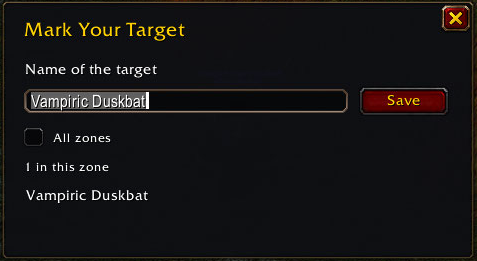
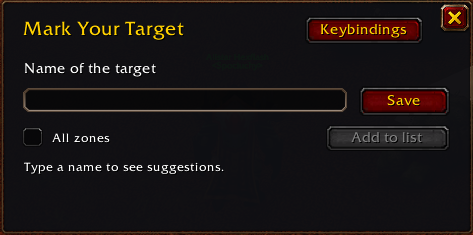
Refresh screenshots for Mark Your Target v1.5.0

Changed region(s): [[0.0, 0.0, 1.0, 1.0], [0.6512, 0.0596, 0.8879, 0.2085], [0.6808, 0.5362, 0.9471, 0.6553]]

diff --git a/docs/index.html b/docs/index.html
@@ -37,28 +37,36 @@
             <h2 id="screenshots-heading">In game</h2>
             <div class="gallery">
                 <figure>
-                    <a href="assets/quick-target.png"><img src="assets/quick-target.png" alt="Quick Target panel for Auctioneer Tricket with the skull marker below it"></a>
-                    <figcaption><strong>Quick Target</strong><span>Prepare a name in chat, then click to target, mark and ping.</span></figcaption>
+                    <a href="assets/target-list.png"><img src="assets/target-list.png" alt="Target list containing Ghost Howl and Ghost Saber with Remove and Save list controls"></a>
+                    <figcaption><strong>Build a target list</strong><span>Add or remove Ghost Howl and Ghost Saber before saving.</span></figcaption>
+                </figure>
+                <figure>
+                    <a href="assets/keybindings.png"><img src="assets/keybindings.png" alt="Keybindings panel with instructions for Quick Target and Cycle Targets"></a>
+                    <figcaption><strong>Set shortcuts in the picker</strong><span>Assign Quick Target and Cycle Targets and see what each needs.</span></figcaption>
+                </figure>
+                <figure>
+                    <a href="assets/macro-window.png"><img src="assets/macro-window.png" alt="WoW’s Macros window showing the macro for Ghost Howl and Ghost Saber"></a>
+                    <figcaption><strong>Save to the Macros window</strong><span>The saved macro tries both names in order.</span></figcaption>
+                </figure>
+                <figure>
+                    <a href="assets/quick-target.png"><img src="assets/quick-target.png" alt="Quick Target panel beside a skull-marked and pinged Kargath Grunt"></a>
+                    <figcaption><strong>Quick Target</strong><span>The panel and the skull and ping on Kargath Grunt.</span></figcaption>
+                </figure>
+                <figure>
+                    <a href="assets/search-all-zones.png"><img src="assets/search-all-zones.png" alt="NPC picker showing suggestions for Ghost and a Show more button"></a>
+                    <figcaption><strong>Find a named mob</strong><span>Search for Ghost and browse matches from other zones.</span></figcaption>
+                </figure>
+                <figure>
+                    <a href="assets/minimap-crosshair.png"><img src="assets/minimap-crosshair.png" alt="Gold arrow pointing to the Mark Your Target icon in MinimapButtonButton"></a>
+                    <figcaption><strong>Minimap crosshair</strong><span>The gold arrow points to Mark Your Target in MinimapButtonButton.</span></figcaption>
+                </figure>
+                <figure>
+                    <a href="assets/choose-target.png"><img src="assets/choose-target.png" alt="Target picker with the search field, Keybindings and Add to list"></a>
+                    <figcaption><strong>Open the picker</strong><span>Open the target picker with /myt or the minimap button.</span></figcaption>
                 </figure>
                 <figure>
                     <a href="assets/ping-warning.png"><img src="assets/ping-warning.png" alt="Target picker showing the warning to enable pings"></a>
                     <figcaption><strong>Ping reminder</strong><span>The picker points to the setting when pings are off.</span></figcaption>
-                </figure>
-                <figure>
-                    <a href="assets/minimap-crosshair.png"><img src="assets/minimap-crosshair.png" alt="MinimapButtonButton tray with the Mark Your Target crosshair on the bottom row"></a>
-                    <figcaption><strong>Minimap crosshair</strong><span>The gold-bordered button inside MinimapButtonButton.</span></figcaption>
-                </figure>
-                <figure>
-                    <a href="assets/choose-target.png"><img src="assets/choose-target.png" alt="Mark Your Target editor with Vampiric Duskbat selected"></a>
-                    <figcaption><strong>Pick a target</strong><span>Type part of the name or choose a local suggestion.</span></figcaption>
-                </figure>
-                <figure>
-                    <a href="assets/macro-window.png"><img src="assets/macro-window.png" alt="Mark Your Target displayed in WoW’s Macros window with the Hunter’s Mark icon"></a>
-                    <figcaption><strong>Save the macro</strong><span>The Macros window opens with your macro selected.</span></figcaption>
-                </figure>
-                <figure>
-                    <a href="assets/search-all-zones.png"><img src="assets/search-all-zones.png" alt="Search results for Cat with All zones selected and Show more available"></a>
-                    <figcaption><strong>Look across Azeroth</strong><span>Search every zone and expand longer result lists.</span></figcaption>
                 </figure>
             </div>
         </section>

diff --git a/README.md b/README.md
@@ -36,13 +36,17 @@ Unzip the release into `World of Warcraft/_forever_/Interface/AddOns/` so that `
 
 ## Screenshots
 
-| Quick Target | Ping reminder | Minimap crosshair |
+| Build a target list | Set shortcuts in the picker | Save to the Macros window |
 | --- | --- | --- |
-| ![Quick Target panel for Auctioneer Tricket with the skull marker below it](docs/assets/quick-target.png) | ![Target picker showing the warning to enable pings](docs/assets/ping-warning.png) | ![MinimapButtonButton tray with the Mark Your Target crosshair on the bottom row](docs/assets/minimap-crosshair.png) |
+| ![Target list containing Ghost Howl and Ghost Saber with Remove and Save list controls](docs/assets/target-list.png) | ![Keybindings panel with instructions for Quick Target and Cycle Targets](docs/assets/keybindings.png) | ![WoW’s Macros window showing the macro for Ghost Howl and Ghost Saber](docs/assets/macro-window.png) |
 
-| Pick an NPC | Save to WoW’s Macros window | Search across all zones |
+| Quick Target | Find a named mob | Minimap crosshair |
 | --- | --- | --- |
-| ![The editor with Vampiric Duskbat selected](docs/assets/choose-target.png) | ![WoW’s Macros window displaying Mark Your Target](docs/assets/macro-window.png) | ![The editor showing results for Cat with All zones enabled](docs/assets/search-all-zones.png) |
+| ![Quick Target panel beside a skull-marked and pinged Kargath Grunt](docs/assets/quick-target.png) | ![NPC picker showing suggestions for Ghost and a Show more button](docs/assets/search-all-zones.png) | ![Gold arrow pointing to the Mark Your Target icon in MinimapButtonButton](docs/assets/minimap-crosshair.png) |
+
+| Open the picker | Ping reminder |
+| --- | --- |
+| ![Target picker with the search field, Keybindings and Add to list](docs/assets/choose-target.png) | ![Target picker showing the warning to enable pings](docs/assets/ping-warning.png) |
 
 ## NPC data
 
